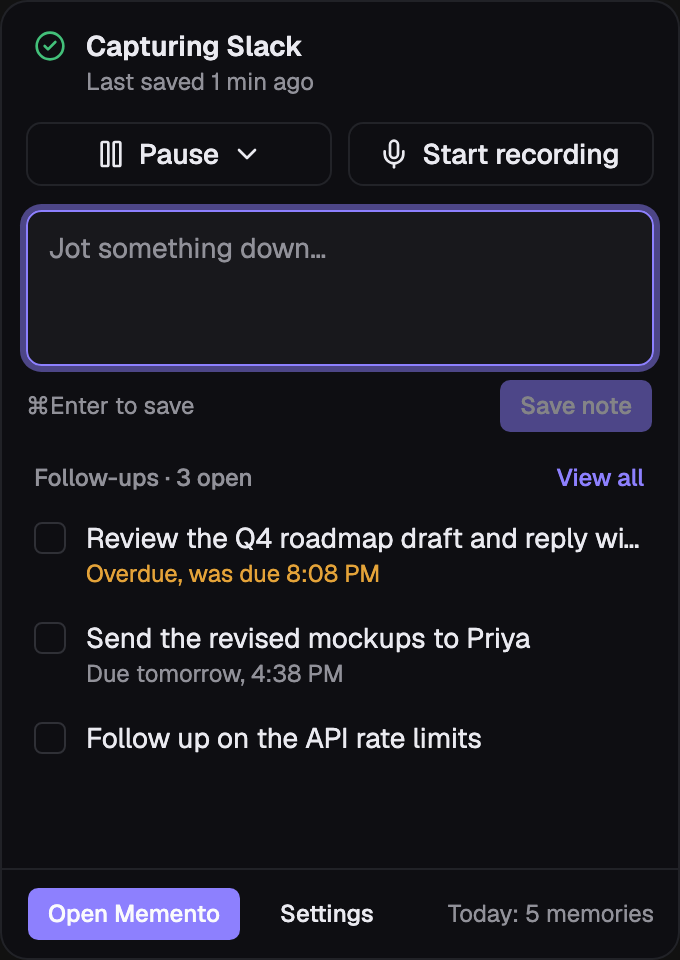
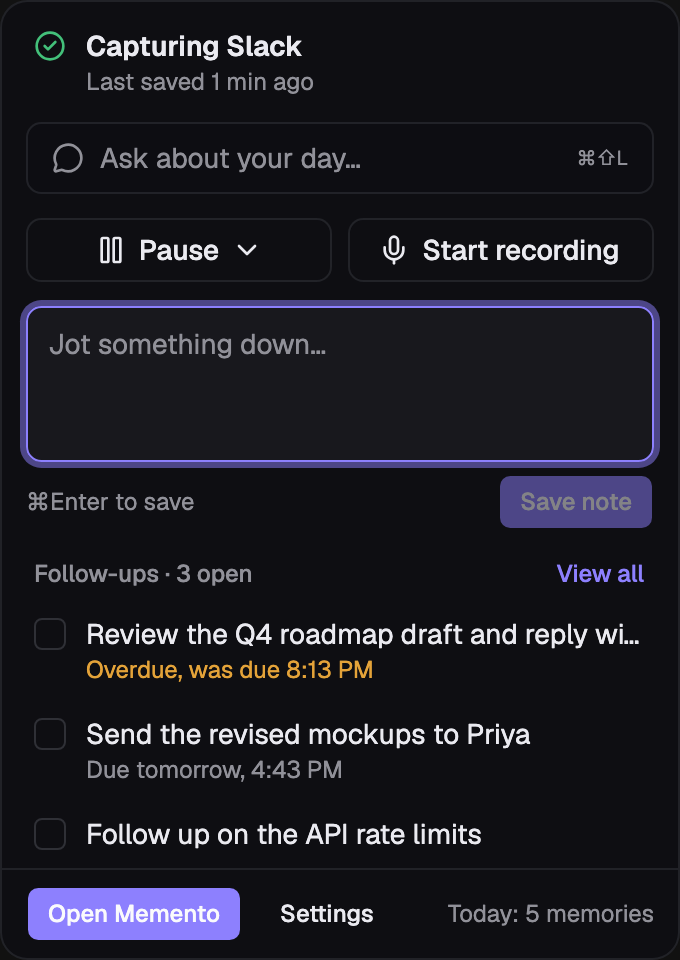
README: refresh screenshots and describe the Ask your day entry points
Screenshots now show the sidebar entry and the popover's Ask row; still sample data.

diff --git a/README.md b/README.md
@@ -16,10 +16,10 @@ memory, and helps you keep track of the things you promised to do.
 <p align="center"><sub>The Today screen.</sub></p>
 
 <p align="center">
-  <img src="docs/screenshots/popover.png" alt="Memento's menu-bar popover: capture status, pause and record controls, a quick note box, and open follow-ups" width="340">
+  <img src="docs/screenshots/popover.png" alt="Memento's menu-bar popover: capture status, an Ask your day box, pause and record controls, a quick note box, and open follow-ups" width="340">
 </p>
 
-<p align="center"><sub>The menu-bar popover: pause, record, jot a note, or tick off a follow-up without opening the app.<br>Screenshots use sample data.</sub></p>
+<p align="center"><sub>The menu-bar popover: ask a question, pause, record, jot a note, or tick off a follow-up without opening the app.<br>Screenshots use sample data.</sub></p>
 
 ## What it does
 
@@ -53,10 +53,13 @@ memory, and helps you keep track of the things you promised to do.
   closed. "micwatch" can auto-start when a meeting app comes forward and
   auto-stop when it ends, with a max-duration clamp so recordings never run
   forever.
-- **Ask your day, over anything (⌘⇧L).** A floating, always-on-top pill
-  expands into a chat panel that answers from the current screen (frontmost
-  app, window title, selected text), your captured memory, and open
-  follow-ups — via your local LLM, fully on-device.
+- **Ask your day, over anything.** Open it with ⌘⇧L from any app, from
+  **Ask your day** in the sidebar, or from the menu-bar popover. A floating,
+  always-on-top panel answers from the current screen (frontmost app, window
+  title, selected text), your captured memory, and open follow-ups. Questions
+  can name a time ("what did I promise last Tuesday?"). With a local LLM it
+  writes an answer; **without one it still works** and shows the matching
+  memories and follow-ups it found. Everything stays on-device.
 - **Timed pause & hourly check-in.** The tray can pause capture for 5/10/30/60
   minutes with auto-resume, and a quiet hourly notification summarizes the
   past hour (memories, follow-ups) honoring Do Not Disturb.
